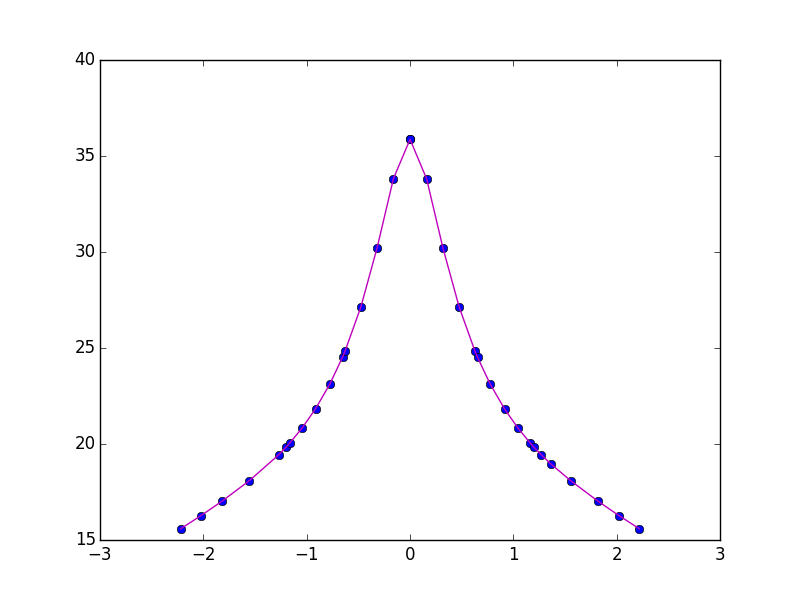
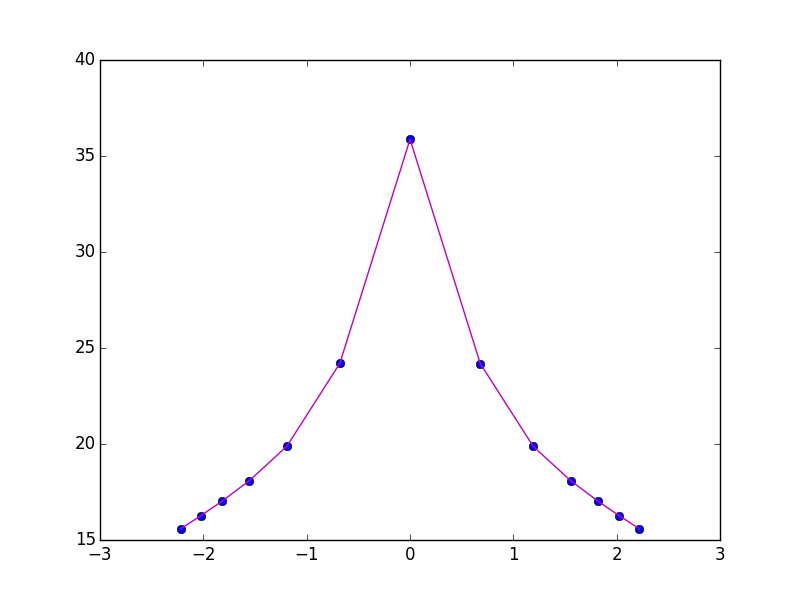
補完してないところで確認

diff --git a/plotEffectivePotential.py b/plotEffectivePotential.py
@@ -3,7 +3,8 @@ import subprocess
 import matplotlib.pyplot as plt
 
 freeEnergyZeropoint = 75.98 - 5.582
-f = open("interpNewData.dat","r")
+# f = open("interpNewData.dat","r")
+f = open("logPhi20.dat", "r")
 x = []
 y = []
 while True:
